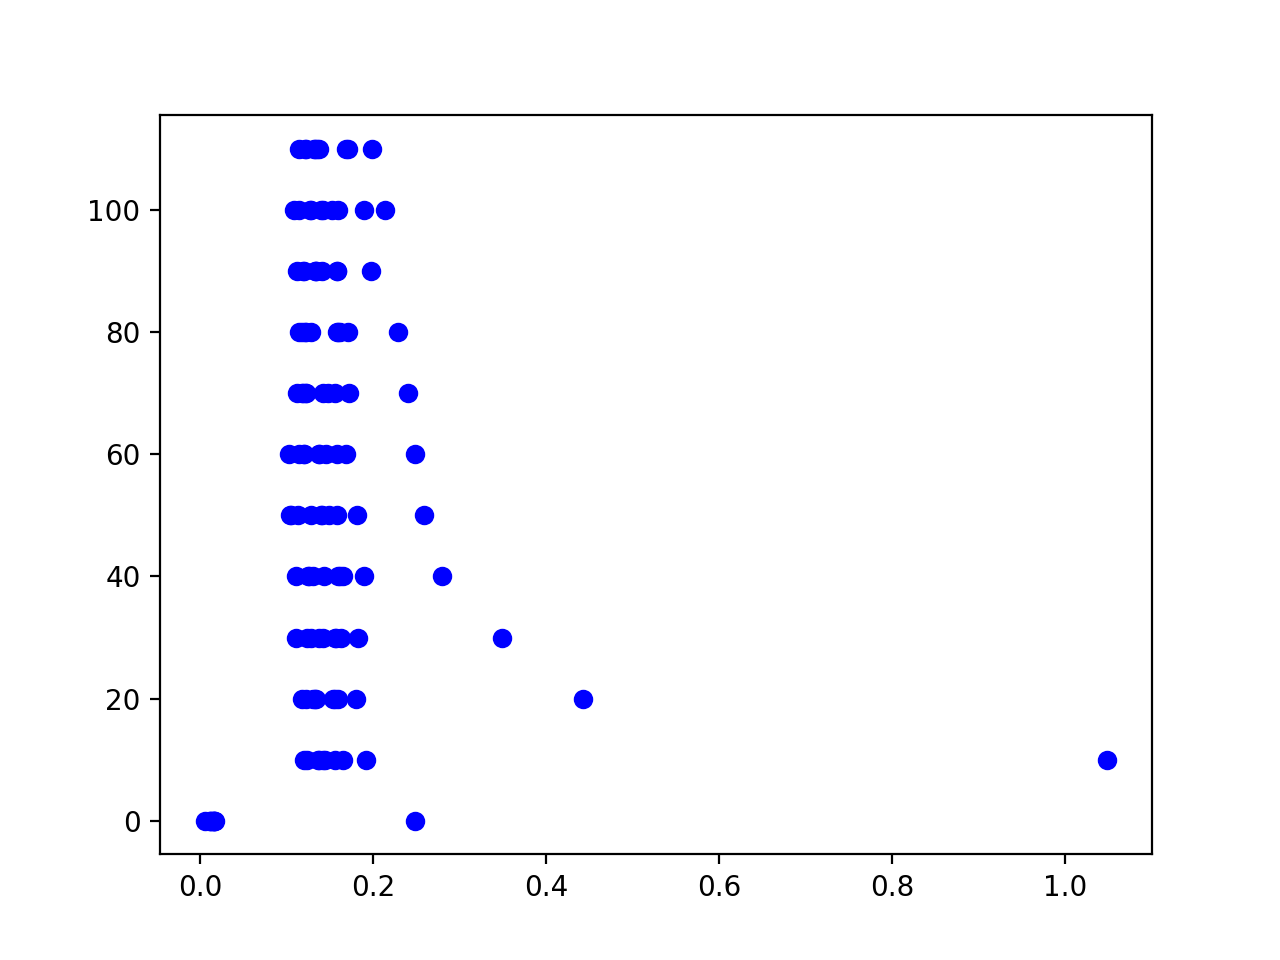
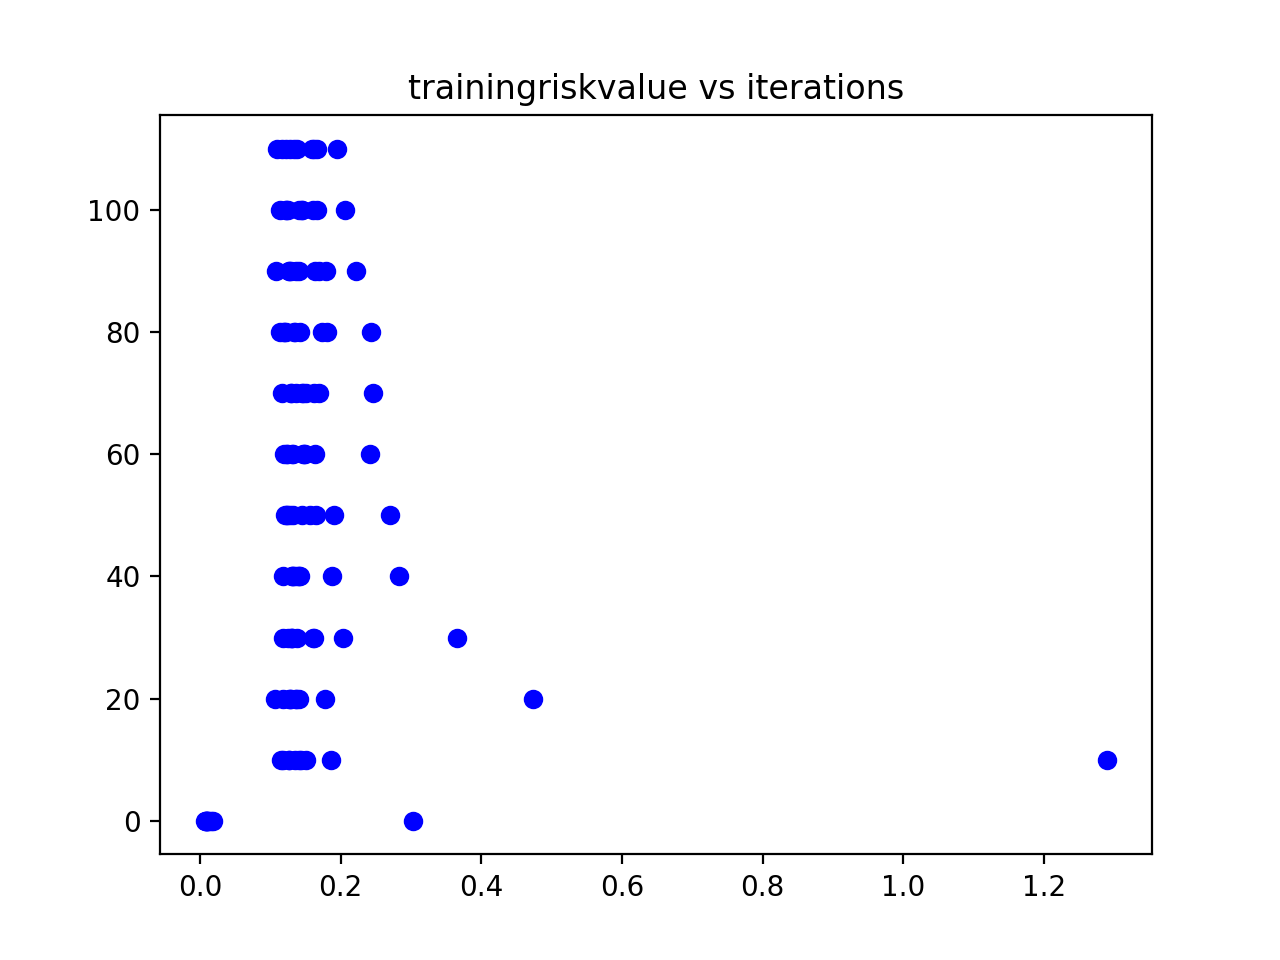
update

diff --git a/MNIST_LogisticRegression_pytorch_PARTB.py b/MNIST_LogisticRegression_pytorch_PARTB.py
@@ -96,13 +96,13 @@ for epoch in range(10):  # loop over the dataset multiple times
 
         # print loss statistics
         running_loss += loss.item()
-
         if not step%10:    # print every 10 mini-batches
             # Average measure of loss
             training_loss = running_loss / 10
             print('epoch:%d, iteration:%5d training average running loss: %.3f' %(epoch + 1, step + 1, training_loss))
             running_loss = 0.0
             plt.plot(training_loss,step,'bo')
+            plt.title('trainingriskvalue vs iterations')
 
 print('Finished Training')
 plt.show()
@@ -118,6 +118,7 @@ net.load_state_dict(torch.load(PATH))
 
 correct = 0
 total = 0
+error_calc = 0
 with torch.no_grad():
     running_loss = 0.0
     for step, data in enumerate(testloader, 0):
@@ -140,6 +141,11 @@ with torch.no_grad():
             print('iteration:%5d testdata average running loss: %.3f' %(step + 1, training_loss))
             running_loss = 0.0
             plt.plot(training_loss, step, 'ro')
+            plt.title('testsetriskvalue vs iterations')
+            error_calc = ((100/total) * (total - correct))
+            # Need to enchance this TODO
+            plt.plot(error_calc, step, 'bo')
+            plt.title('testseterror vs iterations')
 
 print('Total testset images: %s correctly identified images: %s Error: %s%% Accuracy : %d%%'% (total, correct, ((100/total) * (total - correct)), accu))
 plt.show()

diff --git a/Assignment2-PartA.py b/Assignment2-PartA.py
@@ -5,7 +5,7 @@
 #   - backward pass - gradients
 #   - Update weights
 
-import torch
+import torch as torch
 import torch.nn as nn
 import matplotlib.pyplot as plt
 X=torch.tensor([-1.67245526,-2.36540279,-2.14724263,1.40539096,1.24297767,-1.71043904,2.31579097,2.40479939,-2.22112823], dtype=torch.float32)
